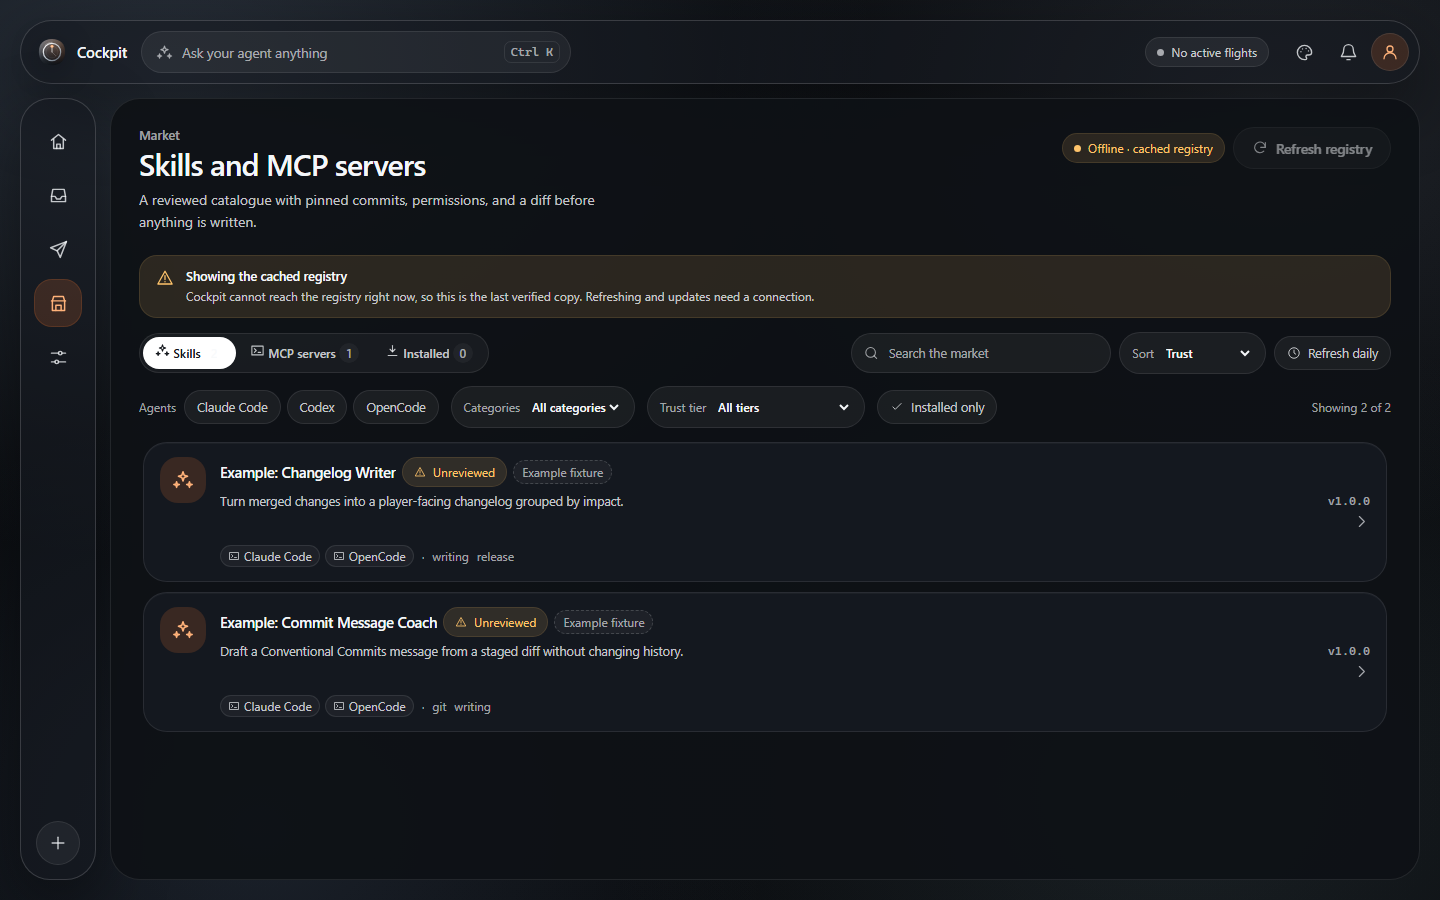
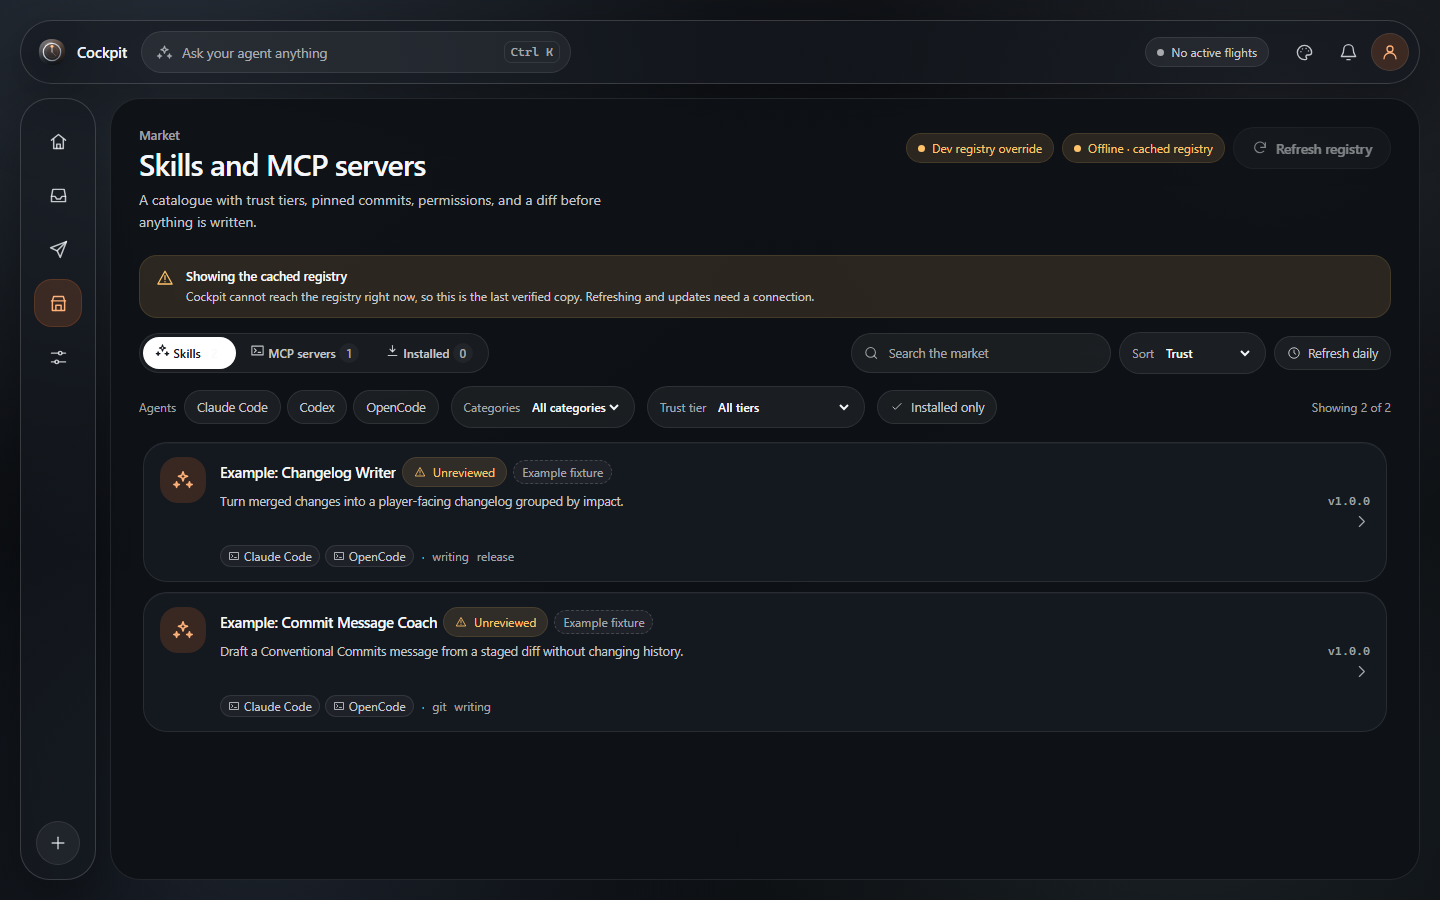
fix: align market copy with what the install actually does

Changed region(s): [[0.0938, 0.2178, 0.4062, 0.2489], [0.625, 0.1244, 0.75, 0.1867]]

diff --git a/ui/src/lib/i18n/catalog.ts b/ui/src/lib/i18n/catalog.ts
@@ -293,7 +293,7 @@ const en = {
   'addAgent.close': 'Close',
   'market.kicker': 'Market',
   'market.title': 'Skills and MCP servers',
-  'market.lede': 'A reviewed catalogue with pinned commits, permissions, and a diff before anything is written.',
+  'market.lede': 'A catalogue with trust tiers, pinned commits, permissions, and a diff before anything is written.',
   'market.notOpen': 'The market is not available yet',
   'market.notOpenBody': 'Cockpit does not install anything in this build. When it does, every card will show a trust tier and the exact files an install will write.',
   'market.trustOfficial': 'Official',
@@ -363,12 +363,13 @@ const en = {
   'market.license': 'License',
   'market.reviewed': 'Reviewed',
   'market.reviewedBy': 'Reviewed by {name}',
-  'market.ciPassed': 'CI passed',
+  'market.ciPassed': 'Checks passed',
+  'market.targetVerified': 'Install target verified',
   'market.commit': 'Pinned commit',
   'market.files': 'Files',
   'market.fileCount': { one: '{count} file', other: '{count} files' },
   'market.readme': 'README',
-  'market.install': 'Install',
+  'market.install': 'Preview install',
   'market.update': 'Update',
   'market.preview': 'Preview install',
   'market.previewTitle': 'Preview install',
@@ -461,7 +462,6 @@ const en = {
   'market.reviewer': 'Reviewer',
   'market.reviewedOn': 'Reviewed {date}',
   'market.ci': 'CI',
-  'market.ciPassedShort': 'Passed',
   'market.exampleNote': 'Example fixtures are hidden in production builds. They exist to exercise the schema and install pipeline.',
   'market.tierOfficialNote': 'Maintained by the Cockpit project.',
   'market.tierReviewedNote': 'Inspected by a named reviewer and CI.',
@@ -470,7 +470,6 @@ const en = {
   'market.registry': 'Signed registry',
   'market.verifiedIndex': 'Signature verified',
   'market.entryCount': { one: '{count} entry', other: '{count} entries' },
-  'market.filterAgentHint': 'Multi-select',
   'market.configKeys': 'Configuration keys',
   'market.sha256': 'SHA-256',
   'market.size': 'Size',

diff --git a/ui/src/lib/screens/MarketScreen.svelte b/ui/src/lib/screens/MarketScreen.svelte
@@ -1136,7 +1136,6 @@
           <section class="sheet-section">
             <div class="sheet-section__head">
               <h3>{t('market.supportedAgents')}</h3>
-              <p>{t('market.filterAgentHint')}</p>
             </div>
             <div class="market-support-list">
               {#each selected.support as support (support.agent)}
@@ -1147,7 +1146,7 @@
                     <small>{supportLabel(support)}</small>
                   </div>
                   {#if support.verified}
-                    <span class="status-pill status-pill--ok">{t('market.ciPassedShort')}</span>
+                    <span class="status-pill status-pill--ok">{t('market.targetVerified')}</span>
                   {:else}
                     <span class="status-pill status-pill--warn">{t('market.manualOnly')}</span>
                   {/if}
